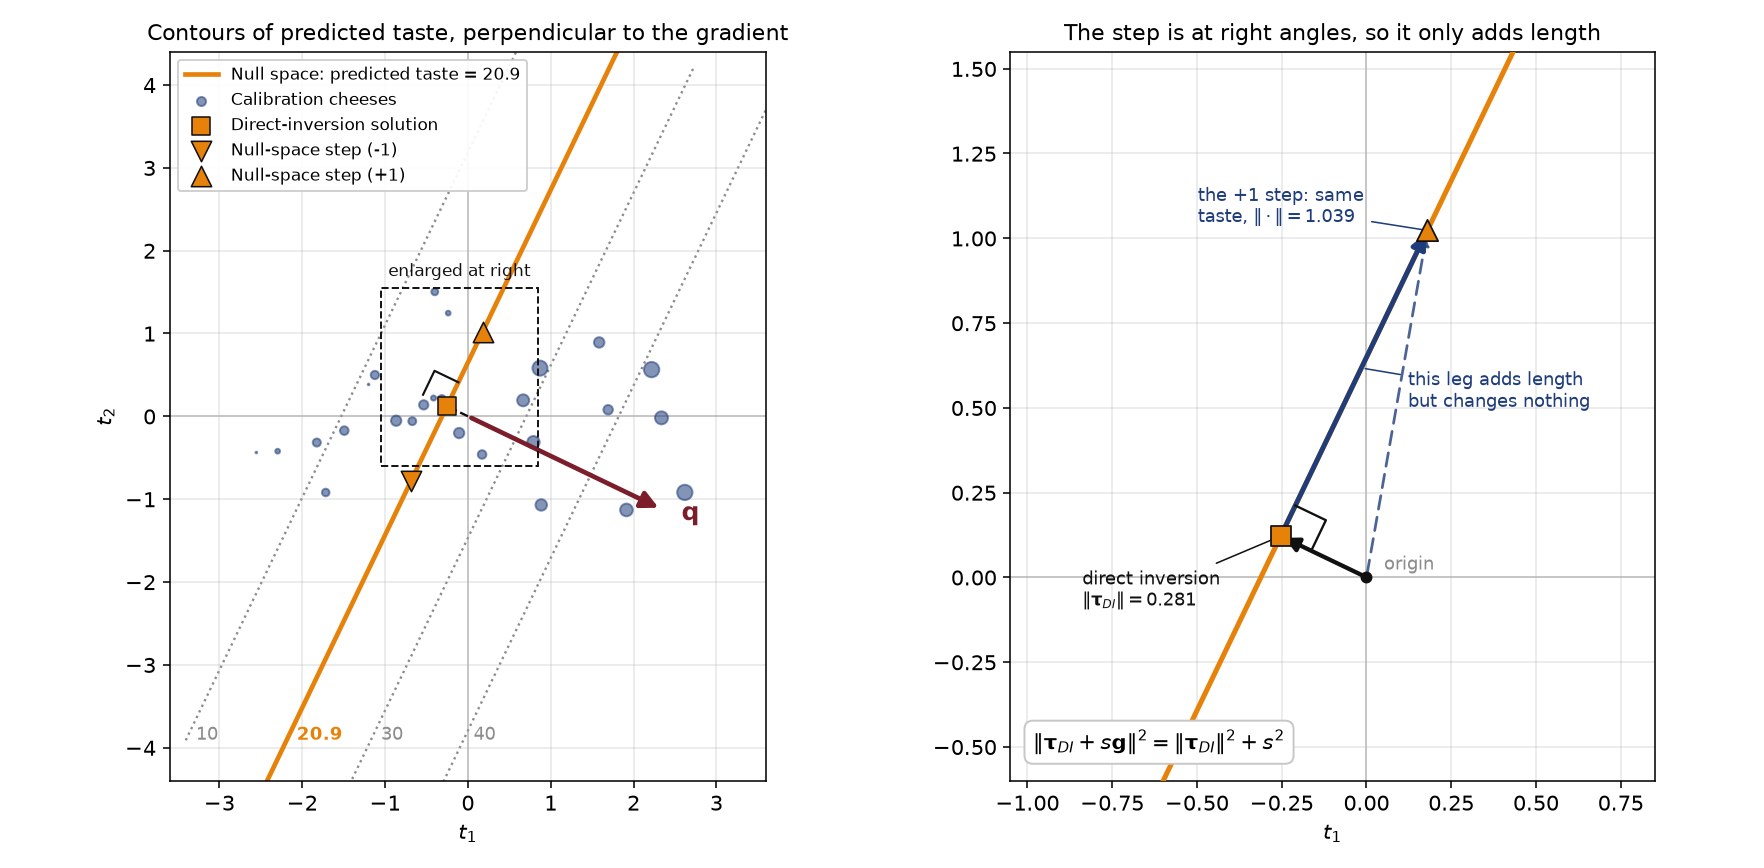
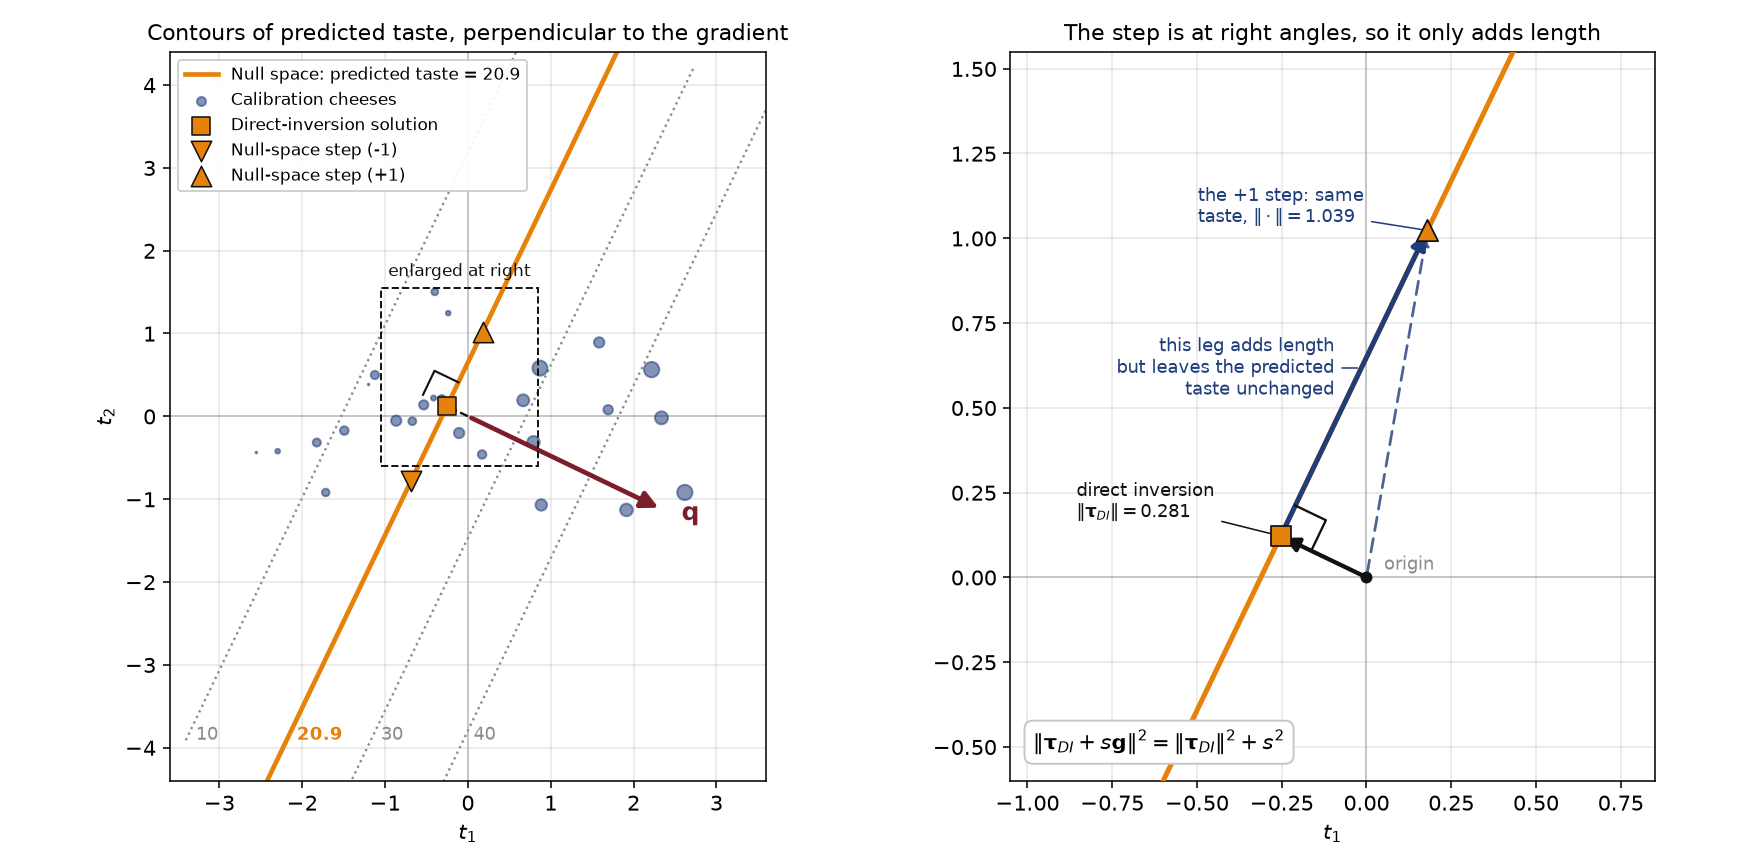
Reposition two labels in the null-space geometry figure
The direct-inversion label sat across the horizontal axis line, and the
leg label sat on the crowded side of the step, away from the leg it
names. That label also stopped at 'changes nothing', which left the
reader to supply what is unchanged.

diff --git a/pls/pls-null-space-geometry.py b/pls/pls-null-space-geometry.py
@@ -209,14 +209,18 @@ def build_figure(out_dir: Path) -> None:
 
     ax_zoom.annotate("origin", xy=(0, 0), xytext=(9, 4), textcoords="offset points",
                      fontsize=9, color=GREY)
+    # Kept clear of the horizontal axis line, which runs just below the solution.
     ax_zoom.annotate("direct inversion\n" r"$\|\mathbf{\tau}_{DI}\| = 0.281$", xy=tuple(tau),
-                     xytext=(-102, -36), textcoords="offset points", fontsize=9, color=BLACK,
-                     arrowprops={"arrowstyle": "-", "color": BLACK, "lw": 0.8})
+                     xytext=(-105, 6), textcoords="offset points", fontsize=9, color=BLACK,
+                     va="bottom", arrowprops={"arrowstyle": "-", "color": BLACK, "lw": 0.8})
     ax_zoom.annotate("the +1 step: same\ntaste, " r"$\|\cdot\| = 1.039$", xy=tuple(candidate),
                      xytext=(-118, 4), textcoords="offset points", fontsize=9, color=DARK_BLUE,
                      arrowprops={"arrowstyle": "-", "color": DARK_BLUE, "lw": 0.8})
-    ax_zoom.annotate("this leg adds length\nbut changes nothing", xy=tuple(tau + 0.55 * g_step),
-                     xytext=(24, -20), textcoords="offset points", fontsize=9, color=DARK_BLUE,
+    # On the free side of the leg, where nothing else is drawn, and close to it.
+    ax_zoom.annotate("this leg adds length\nbut leaves the predicted\ntaste unchanged",
+                     xy=tuple(tau + 0.55 * g_step),
+                     xytext=(-14, 0), textcoords="offset points", fontsize=9, color=DARK_BLUE,
+                     ha="right", va="center",
                      arrowprops={"arrowstyle": "-", "color": DARK_BLUE, "lw": 0.8})
     ax_zoom.text(0.035, 0.035,
                  r"$\|\mathbf{\tau}_{DI} + s\mathbf{g}\|^2 = \|\mathbf{\tau}_{DI}\|^2 + s^2$",
